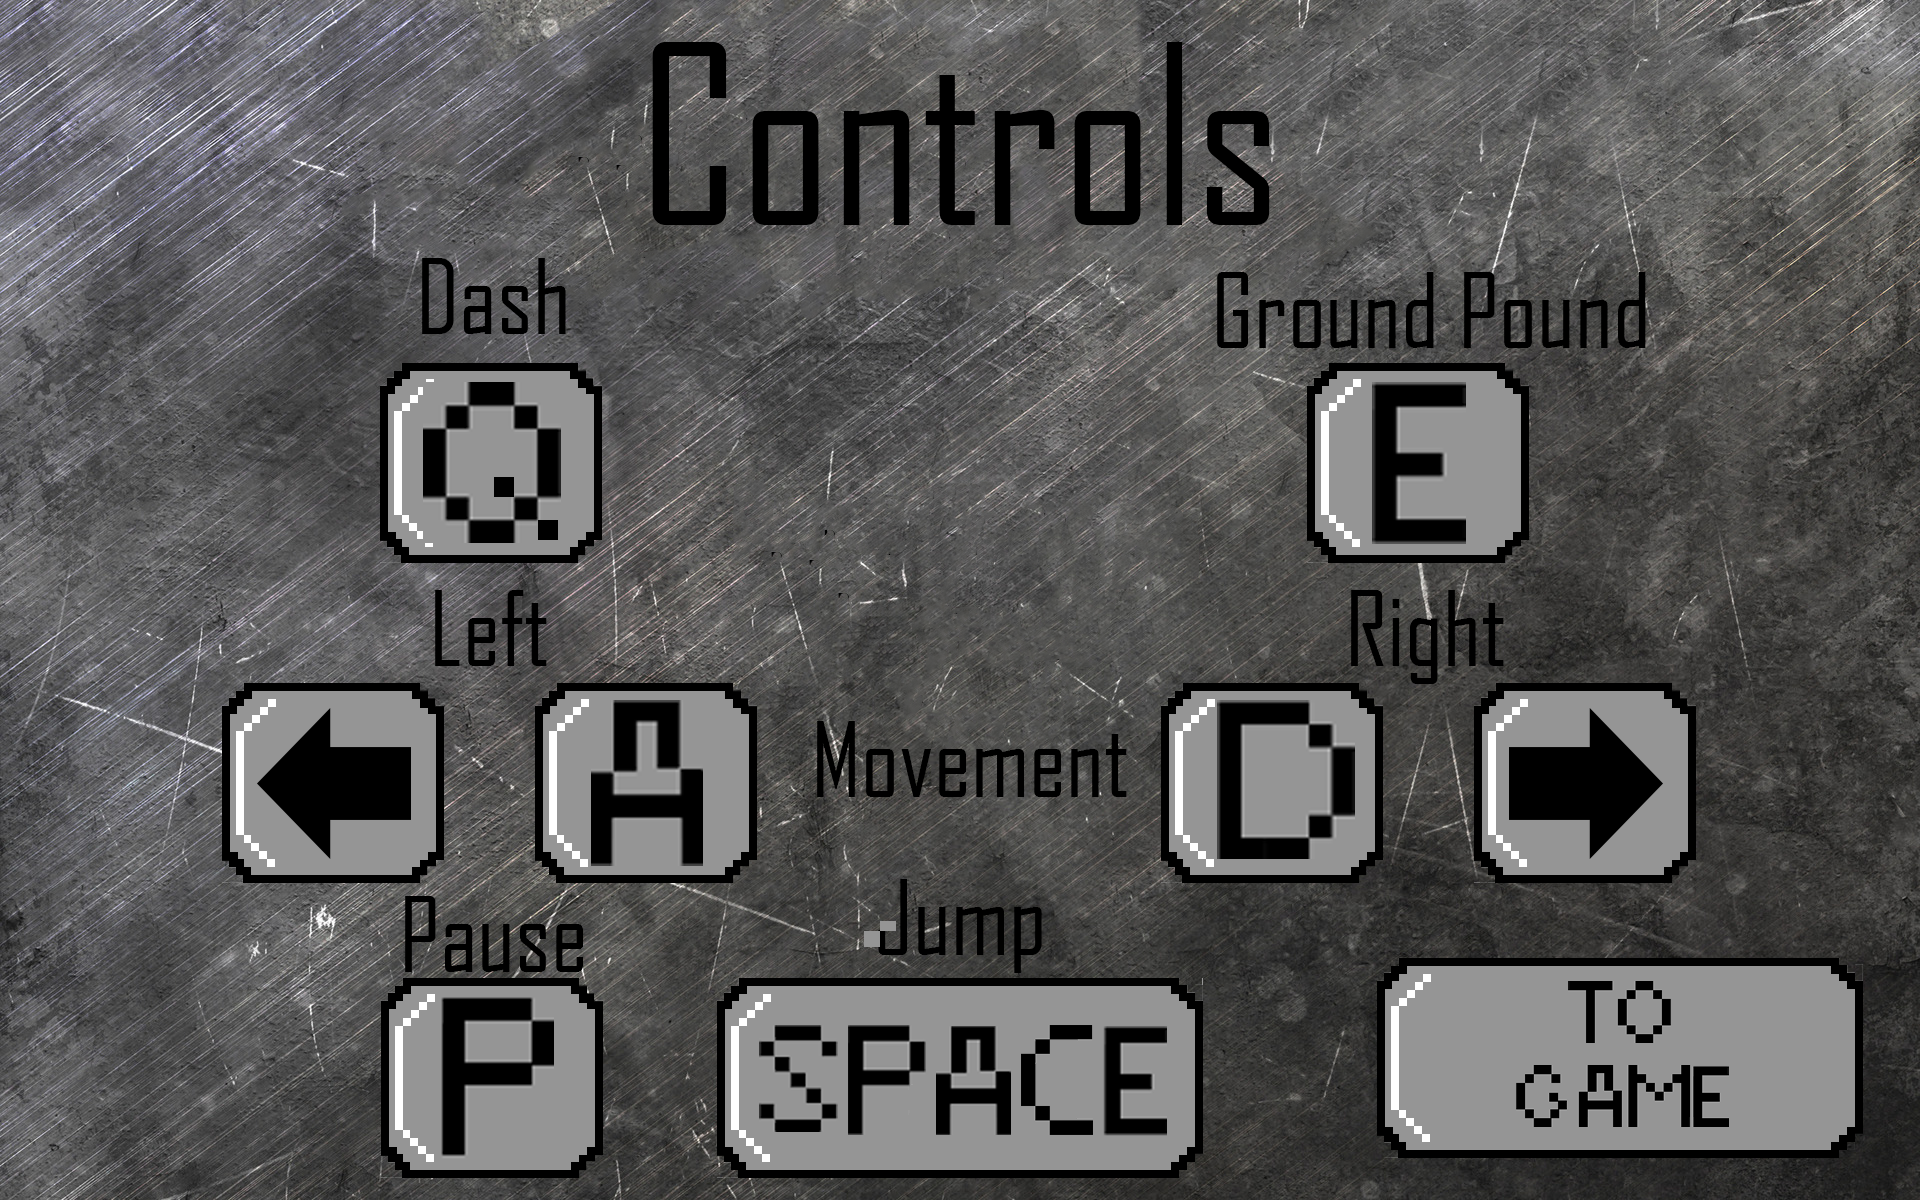
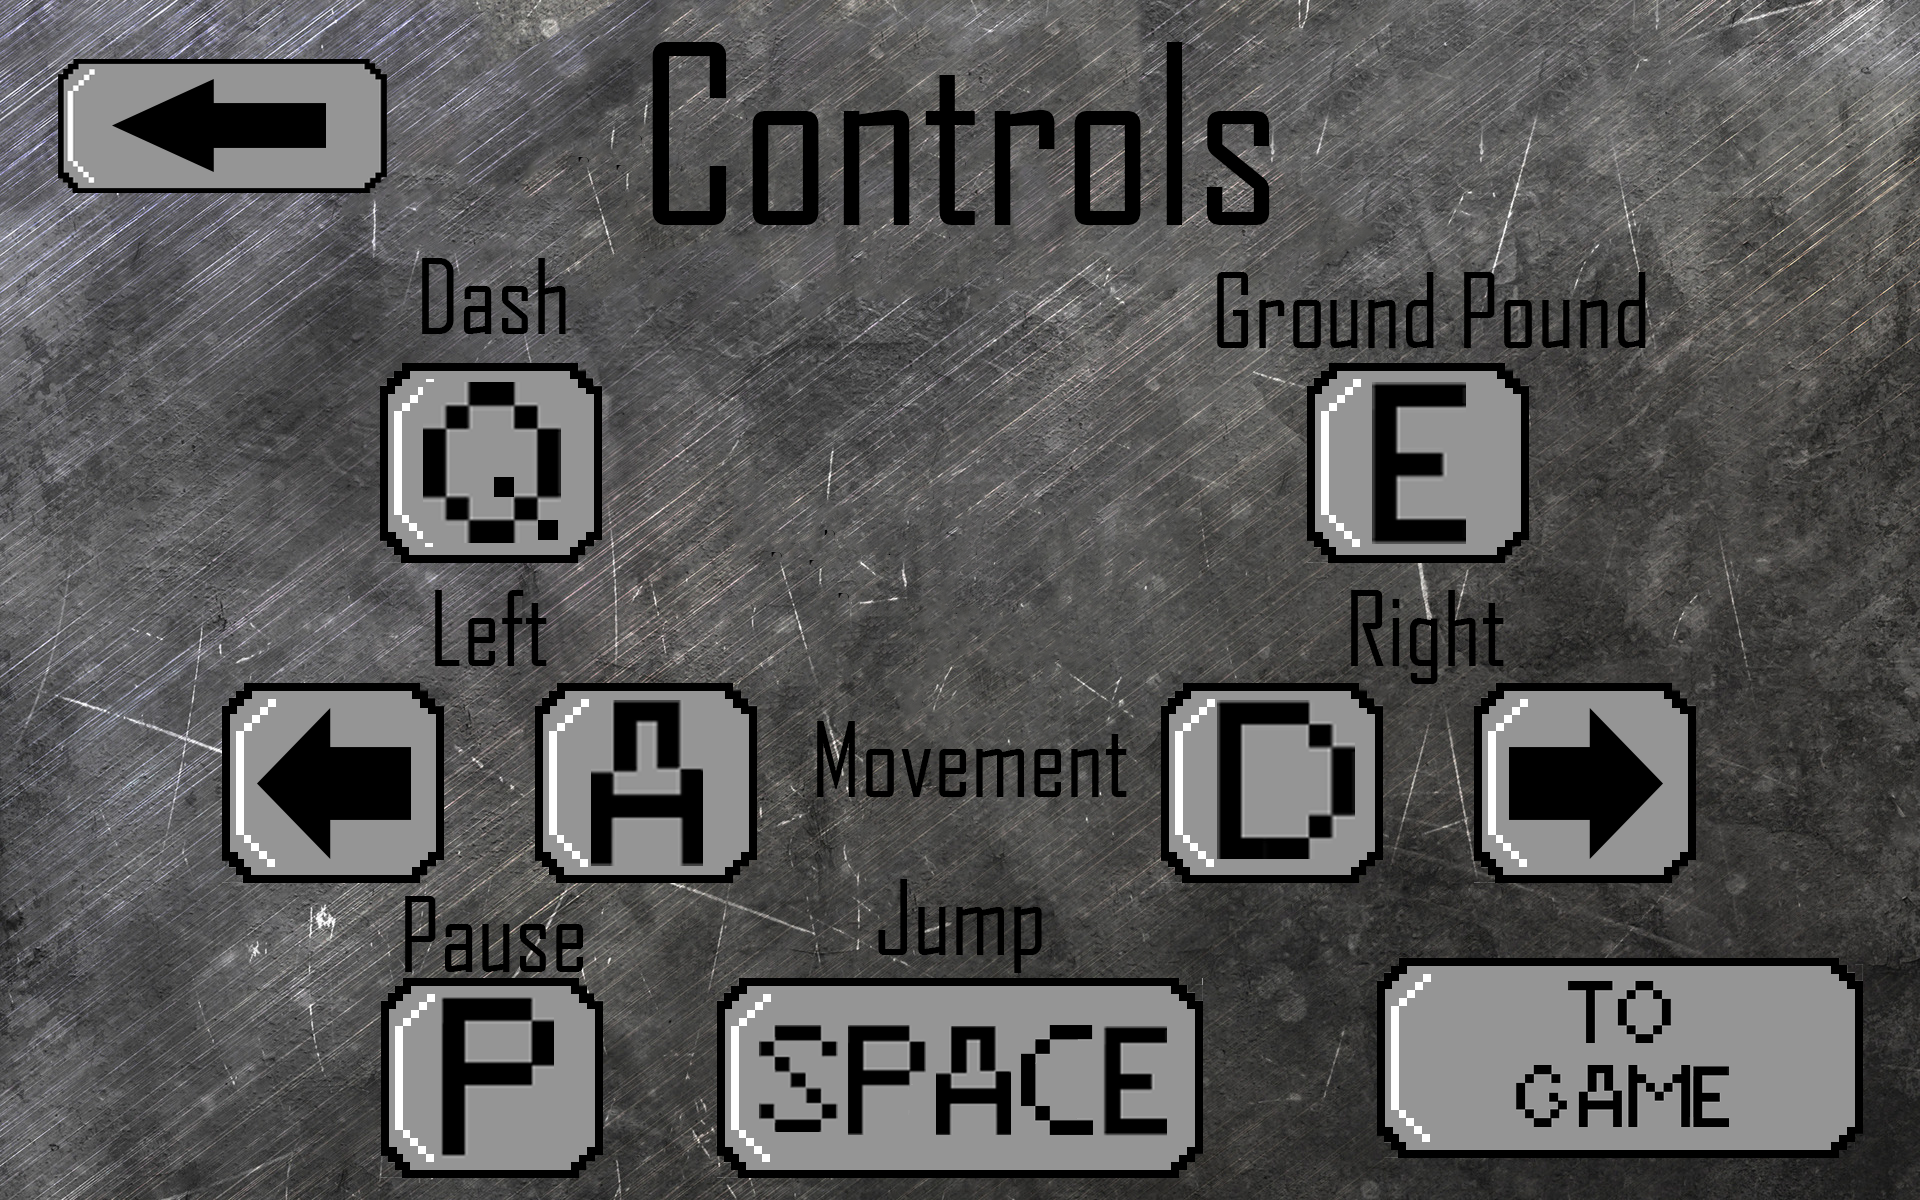
Added a back to menu button on Controls and added more textures - not implemented yet

Changed region(s): [[0.0312, 0.0308, 0.2188, 0.185], [0.4375, 0.7708, 0.4688, 0.8017]]

diff --git a/Purpose/Game1.cs b/Purpose/Game1.cs
@@ -93,6 +93,7 @@ namespace Purpose
         private GameObject goOnButton;
         private GameObject upgradesButton;
         private GameObject returnToMenuButton;
+        private GameObject returnToMainButton;
 
         //Field for other Classes
         private Reader reader;
@@ -239,7 +240,8 @@ namespace Purpose
             goOnButton = new GameObject(textureManager.ButtonFrame, new Rectangle(500, 272, 349, 160));
             upgradesButton = new GameObject(textureManager.ButtonFrame, new Rectangle(500, 512, 349, 160));
             returnToMenuButton = new GameObject(textureManager.ButtonFrame, new Rectangle(500, 343, 349, 160));
-
+            returnToMainButton = new GameObject(textureManager.ButtonFrame, new Rectangle(35, 35, 243, 108));
+        
             groundPoundButton = new GameObject(textureManager.RoundedFrame, new Rectangle(337,200,118,118));
             attackUpButton = new GameObject(textureManager.RoundedFrame, new Rectangle(510, 292, 118, 118));
             staminaUpButton = new GameObject(textureManager.RoundedFrame, new Rectangle(725, 292, 118, 118));
@@ -398,6 +400,7 @@ namespace Purpose
             // GameState drawing stuffs
             switch (gameManager.GameState)
             {
+                #region Menu Draw State
                 case GameState.Menu:
 
                     spriteBatch.Draw(textureManager.StartScreen, new Rectangle(0, 0, GraphicsDevice.Viewport.Width, GraphicsDevice.Viewport.Height), Color.White);
@@ -419,7 +422,9 @@ namespace Purpose
                         spriteBatch.Draw(presetGameButton.Texture, presetGameButton.Position, Color.White);
                     }
                     break;
+                #endregion
 
+                #region Controls Draw State
                 case GameState.Controls:
                     spriteBatch.Draw(textureManager.ControlScreen, new Rectangle(0, 0, GraphicsDevice.Viewport.Width, GraphicsDevice.Viewport.Height), Color.White);
                     if (toGameButton.Intersects(ms.Position))
@@ -430,8 +435,19 @@ namespace Purpose
                     {
                         spriteBatch.Draw(toGameButton.Texture, toGameButton.Position, Color.White);
                     }
-                    break;
 
+                    if (returnToMainButton.Intersects(ms.Position))
+                    {
+                        spriteBatch.Draw(returnToMainButton.Texture, returnToMainButton.Position, Color.Black);
+                    }
+                    else
+                    {
+                        spriteBatch.Draw(returnToMainButton.Texture, returnToMainButton.Position, Color.White);
+                    }
+                    break;
+                #endregion
+
+                #region Preset Game Draw State
                 case GameState.PresetGame:
                     // Background
                     for (int x = worldLeftEndWidth; x < worldRightEndWidth; x += background.Width)
@@ -487,7 +503,9 @@ namespace Purpose
                     }
 
                     break;
+                #endregion
 
+                #region Edited Game Draw State
                 case GameState.EditorGame:
                     // Background
                     for (int x = worldLeftEndWidth; x < worldRightEndWidth; x += background.Width)
@@ -541,7 +559,9 @@ namespace Purpose
                         spriteBatch.Draw(textureManager.Staminabar, staminaBar, Color.White);
                     }
                     break;
+                #endregion
 
+                #region Pause Draw State
                 case GameState.Pause:
                     spriteBatch.Draw(textureManager.PauseScreen, new Rectangle(0, 0, GraphicsDevice.Viewport.Width, GraphicsDevice.Viewport.Height), Color.White);
 
@@ -554,7 +574,9 @@ namespace Purpose
                         spriteBatch.Draw(returnToGameButton.Texture, returnToGameButton.Position, Color.White);
                     }
                     break;
+                #endregion
 
+                #region Upgrade Menu Draw State
                 case GameState.UpgradeMenu:
                     spriteBatch.Draw(textureManager.UpgradeScreen, new Rectangle(0, 0, GraphicsDevice.Viewport.Width, GraphicsDevice.Viewport.Height), Color.White);
                     spriteBatch.DrawString(agency30, "Upgrade Points: " + gameManager.Player.UgManager.UpgradePoints.ToString(), new Vector2(1090,730), Color.White);
@@ -622,7 +644,9 @@ namespace Purpose
                         spriteBatch.Draw(dashDistanceUpButton.Texture, dashDistanceUpButton.Position, Color.White);
                     }
                     break;
+                #endregion
 
+                #region Next Wave Draw State
                 case GameState.NextWave:
                     spriteBatch.Draw(textureManager.NextWaveScreen, new Rectangle(0, 0, GraphicsDevice.Viewport.Width, GraphicsDevice.Viewport.Height), Color.White);
 
@@ -645,7 +669,9 @@ namespace Purpose
                         spriteBatch.Draw(upgradesButton.Texture, upgradesButton.Position, Color.White);
                     }
                     break;
+                #endregion
 
+                #region Game Over Draw State
                 case GameState.GameOver:
                     spriteBatch.Draw(textureManager.GameOver, new Rectangle(0, 0, GraphicsDevice.Viewport.Width, GraphicsDevice.Viewport.Height), Color.White);
 
@@ -658,7 +684,9 @@ namespace Purpose
                         spriteBatch.Draw(returnToMenuButton.Texture, returnToMenuButton.Position, Color.White);
                     }
                     break;
+                #endregion
 
+                #region You Win Draw State
                 case GameState.YouWin:
                     spriteBatch.Draw(textureManager.YouWin, new Rectangle(0, 0, GraphicsDevice.Viewport.Width, GraphicsDevice.Viewport.Height), Color.White);
                     if (returnToMenuButton.Intersects(ms.Position))
@@ -670,6 +698,7 @@ namespace Purpose
                         spriteBatch.Draw(returnToMenuButton.Texture, returnToMenuButton.Position, Color.White);
                     }
                     break;
+                    #endregion
             }
 
             spriteBatch.End();
@@ -719,6 +748,11 @@ namespace Purpose
                         {
                             gameManager.GameState = GameState.PresetGame;
                         }
+                    }
+
+                    if (returnToMainButton.Intersects(ms.Position) && ms.LeftButton == ButtonState.Pressed && previousMs.LeftButton == ButtonState.Released)
+                    {
+                        gameManager.GameState = GameState.Menu;
                     }
                     break;
                 #endregion

diff --git a/Purpose/UpgradeManager.cs b/Purpose/UpgradeManager.cs
@@ -106,7 +106,7 @@ namespace Purpose
                 damageTier++;
                 if (damageTier < 3)
                 {
-                    damage += 1;
+                    damage += 3;
                     upgradePoints--;
                 }
                 else if (damageTier >= 12)
@@ -116,12 +116,12 @@ namespace Purpose
                 }
                 else if (damageTier >= 9 && upgradePoints > 5)
                 {
-                    damage += 8;
+                    damage += 3;
                     upgradePoints -= 5;
                 }
                 else if (damageTier >= 6 && upgradePoints > 2)
                 {
-                    damage += 6;
+                    damage += 3;
                     upgradePoints -= 3;
                 }
                 else if (damageTier >= 3 && upgradePoints > 1)
